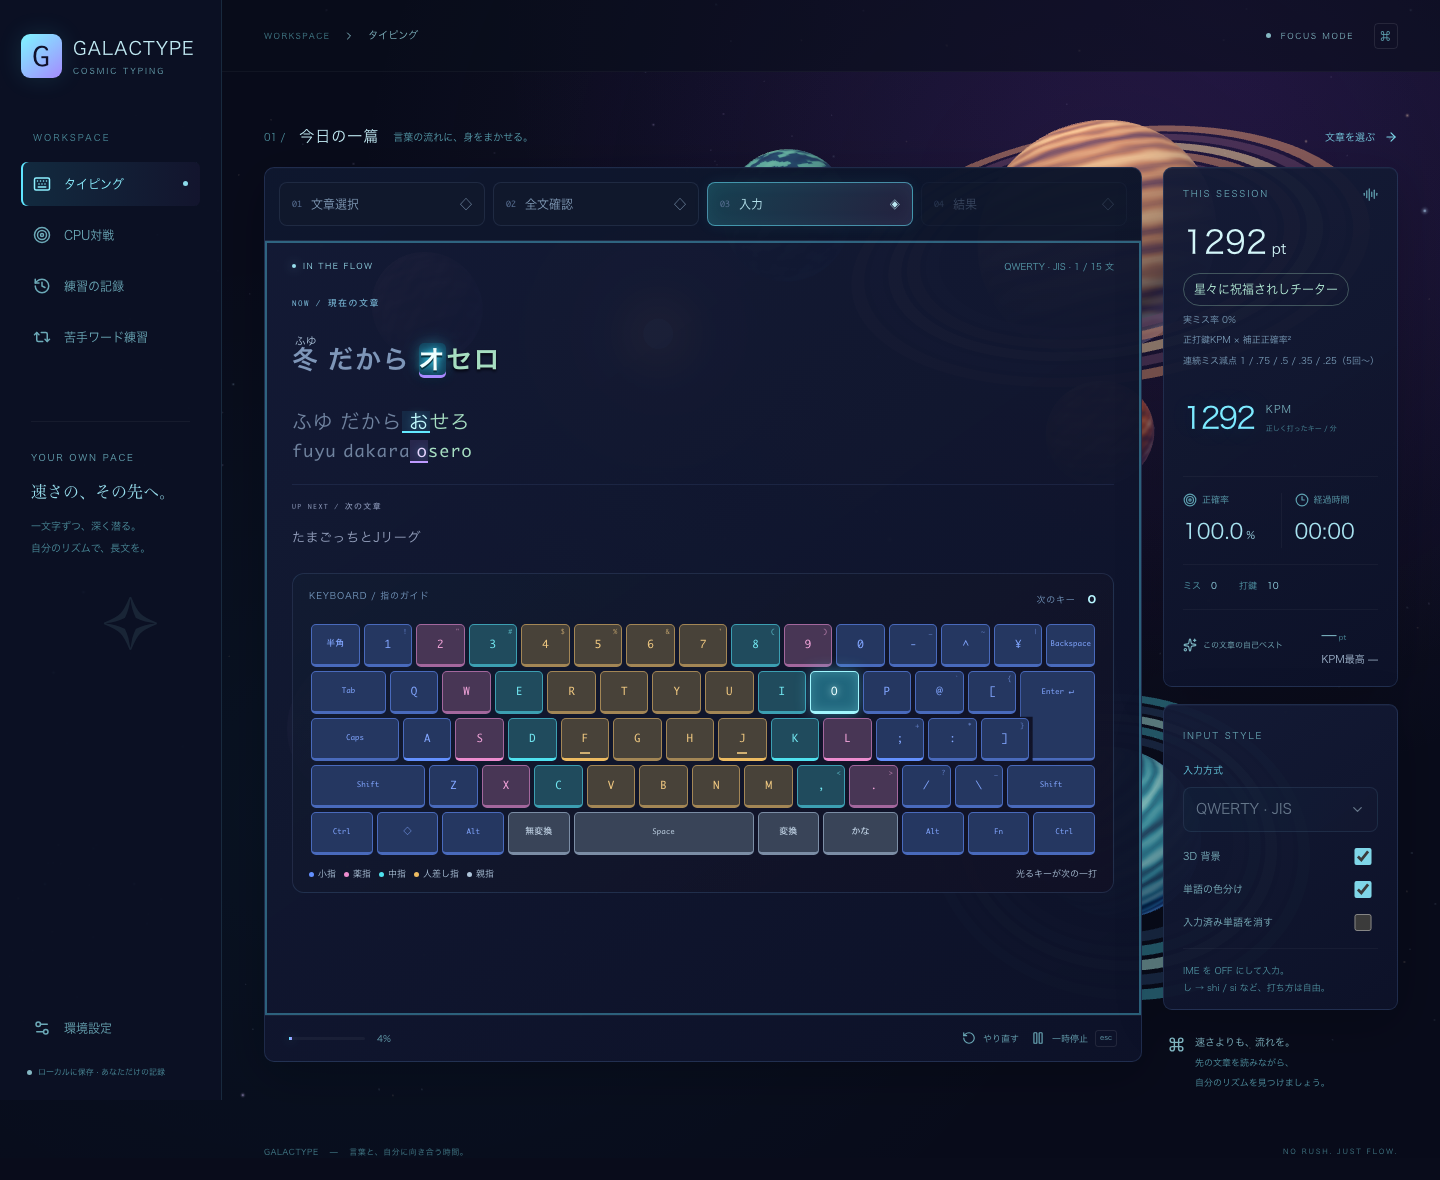
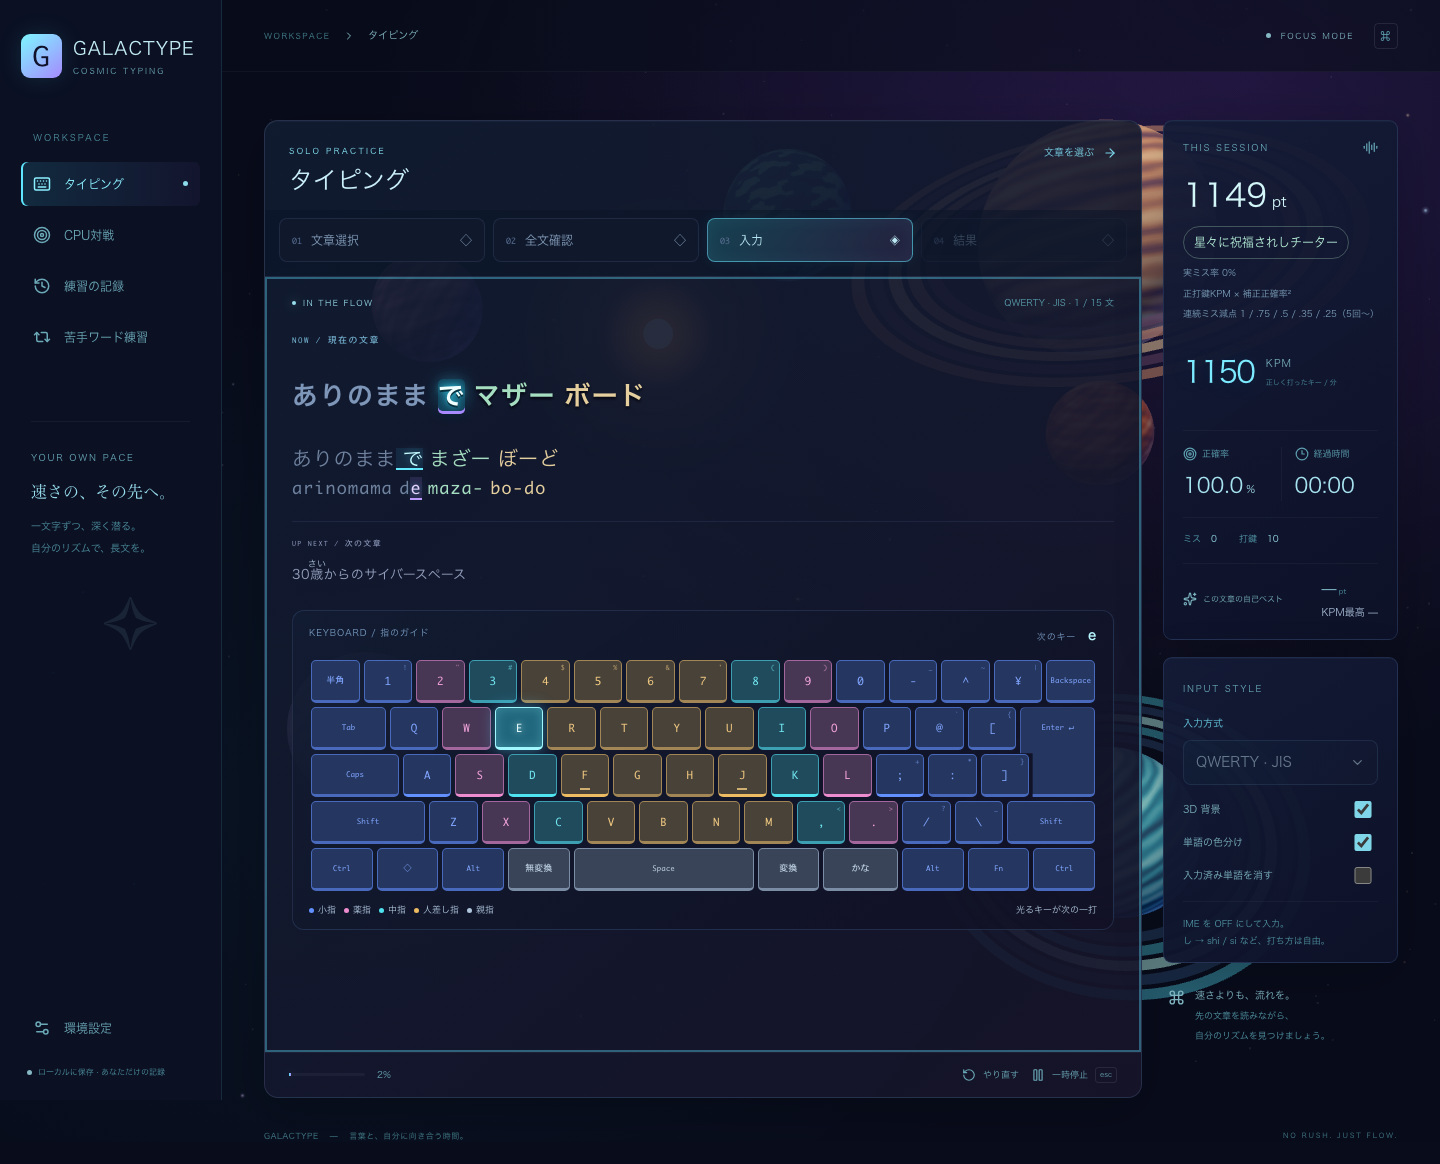
style: tighten typing heading spacing and refresh preview

diff --git a/e2e/ghost-library.spec.ts b/e2e/ghost-library.spec.ts
@@ -303,7 +303,7 @@ test('unified selection filters and searches the library; briefing wraps while t
     await page
       .locator('.mission-viewport')
       .evaluate((el) => el.getBoundingClientRect().height),
-  ).toBe(height)
+  ).toBeCloseTo(height, 1)
   await page.screenshot({
     path: 'artifacts/briefing-wrap-mobile.png',
     fullPage: true,
@@ -318,7 +318,7 @@ test('unified selection filters and searches the library; briefing wraps while t
     await page
       .locator('.mission-viewport')
       .evaluate((el) => el.getBoundingClientRect().height),
-  ).toBe(height)
+  ).toBeCloseTo(height, 1)
   expect(
     await page.evaluate(
       () => document.documentElement.scrollWidth <= innerWidth,

diff --git a/e2e/page-design.spec.ts b/e2e/page-design.spec.ts
@@ -57,6 +57,13 @@ test('pages share CPU typography and translucent surfaces at desktop and mobile 
         }
       })
       expect(appearance).toEqual(reference)
+      if (label === 'タイピング') {
+        const heading = await root.locator('.page-heading h2').boundingBox()
+        const step = await page
+          .getByRole('button', { name: '文章選択へ', exact: true })
+          .boundingBox()
+        expect(step!.y - heading!.y - heading!.height).toBeLessThanOrEqual(28)
+      }
       expect(
         await page.evaluate(
           () => document.documentElement.scrollWidth <= innerWidth,

diff --git a/src/app/App.css b/src/app/App.css
@@ -4199,3 +4199,10 @@ rt {
     padding: 20px 12px;
   }
 }
+
+.practice-main:not(.cpu-battle) > .page-heading {
+  padding-bottom: 0;
+}
+.practice-main:not(.cpu-battle) > .mission-carousel > .mission-steps {
+  padding-top: 8px;
+}
